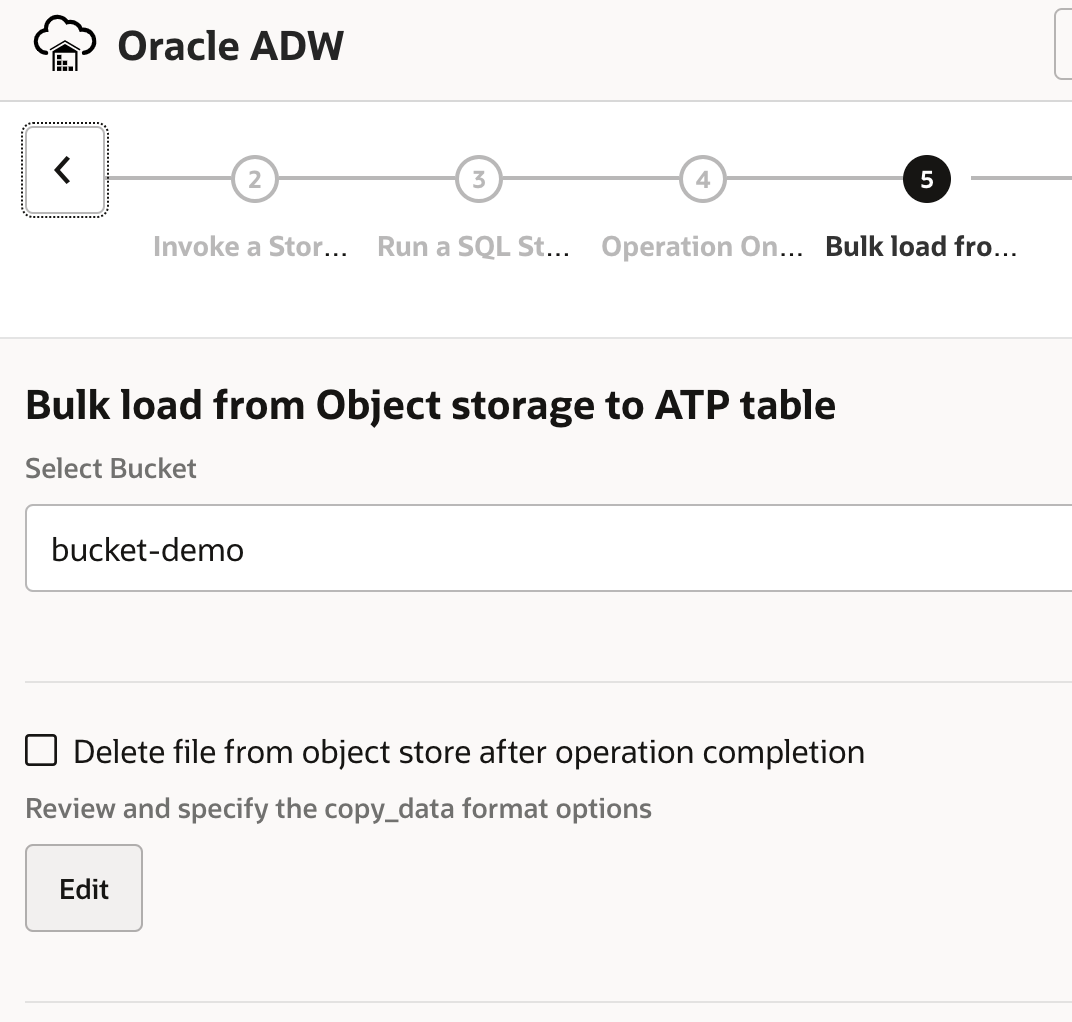
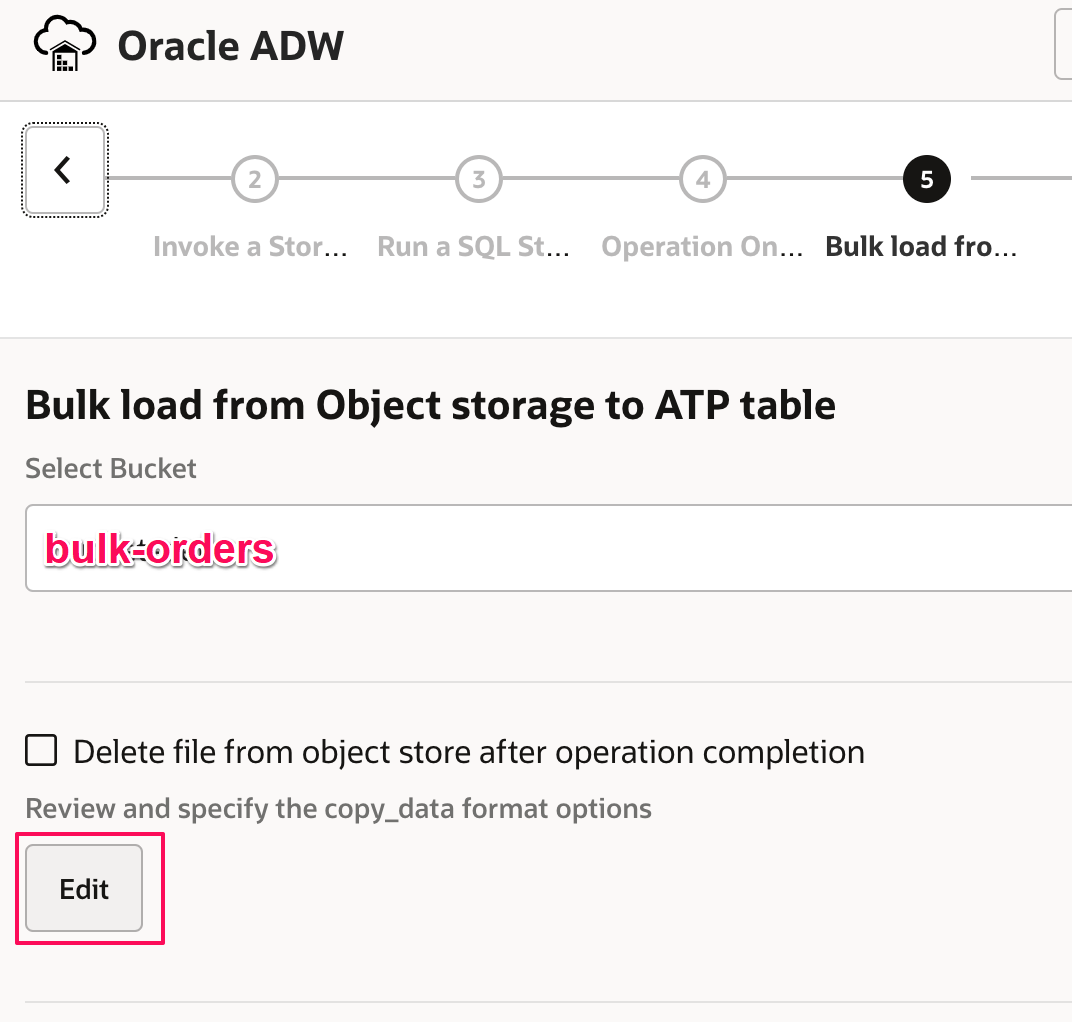
bucket changes

Changed region(s): [[0.0308, 0.5157, 0.2771, 0.5763], [0.0, 0.7886, 0.1539, 0.9403]]

diff --git a/oic-gen3/core-competencies/get-started-oic/create-flow/create-flow.md b/oic-gen3/core-competencies/get-started-oic/create-flow/create-flow.md
@@ -97,7 +97,7 @@ Add the Oracle Autonomous Data Warehouse Adapter invoke to the integration canva
 
     | **Element**        | **Value**          |       
     | --- | ----------- |
-    | Select Bucket | **bucket-demo** (Select the Object Storage bucket that was created in previous lab)  |
+    | Select Bucket | **bulk-orders** (Select the Object Storage bucket that was created in previous lab)  |
     | Delete file from object store after operation completion | **Deselect** |
     | Select Schema | **ADMIN** |
     | Select Table | Select **V\_SALES\_ORDERS**|
